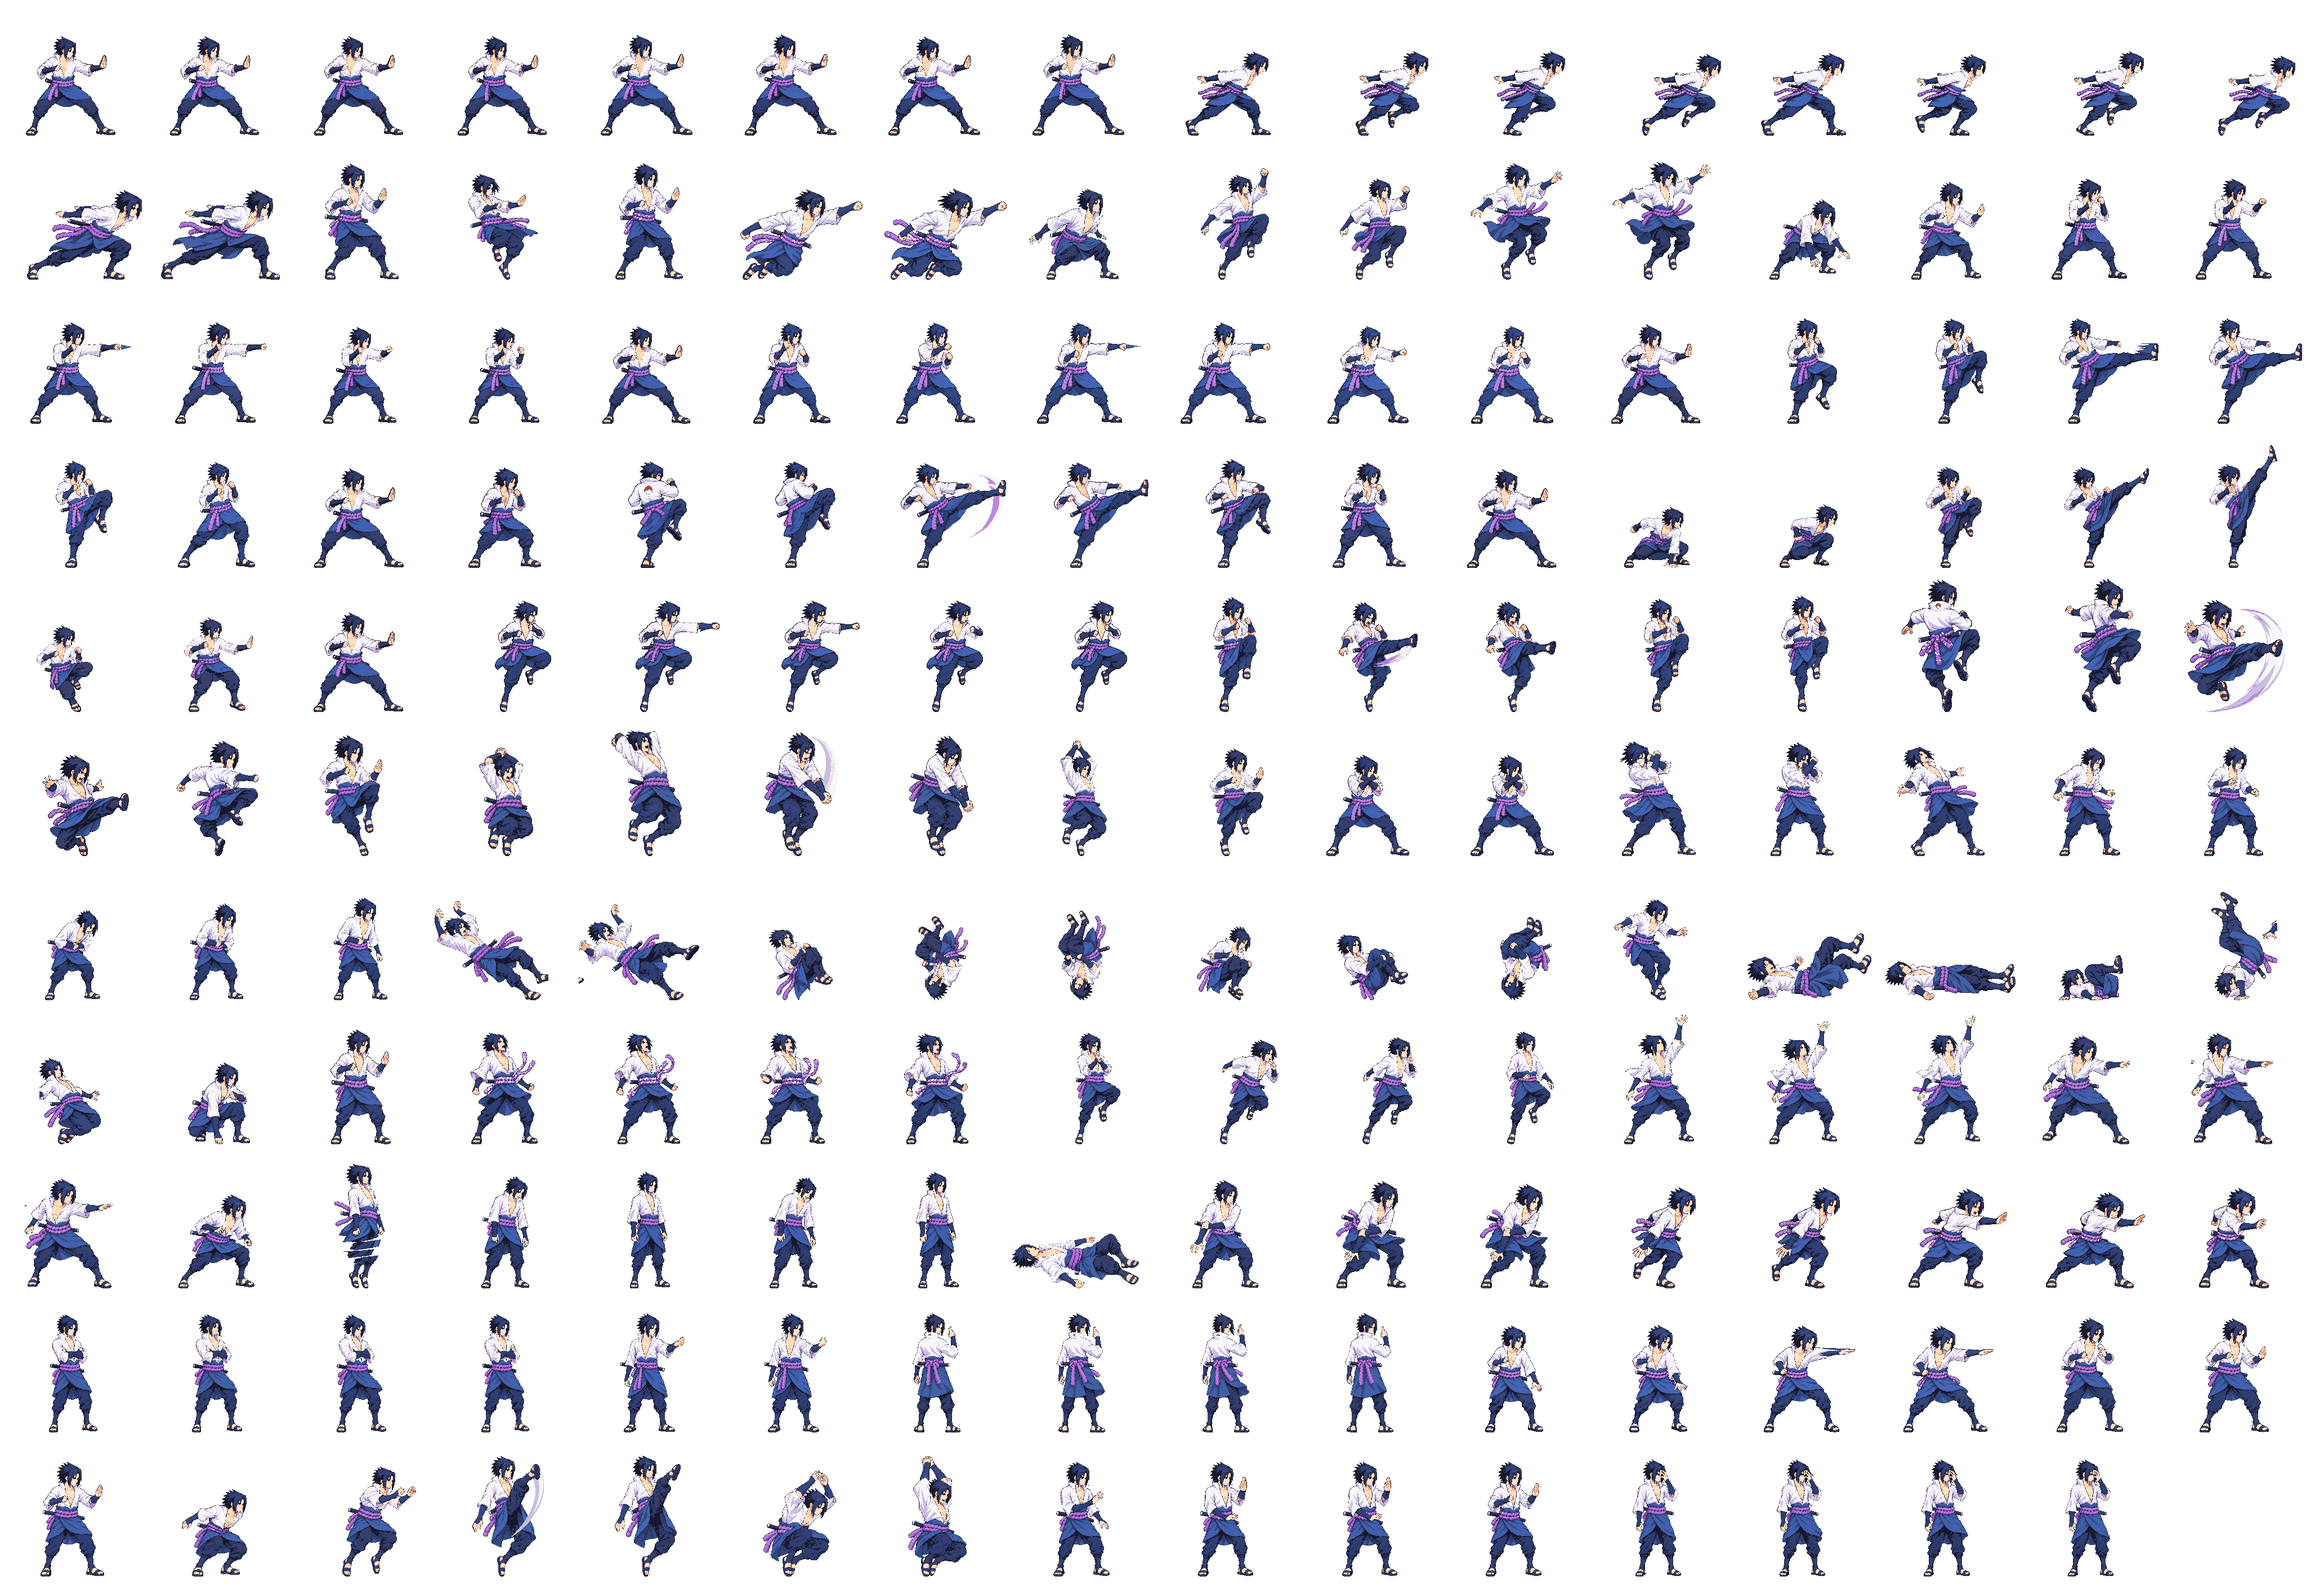
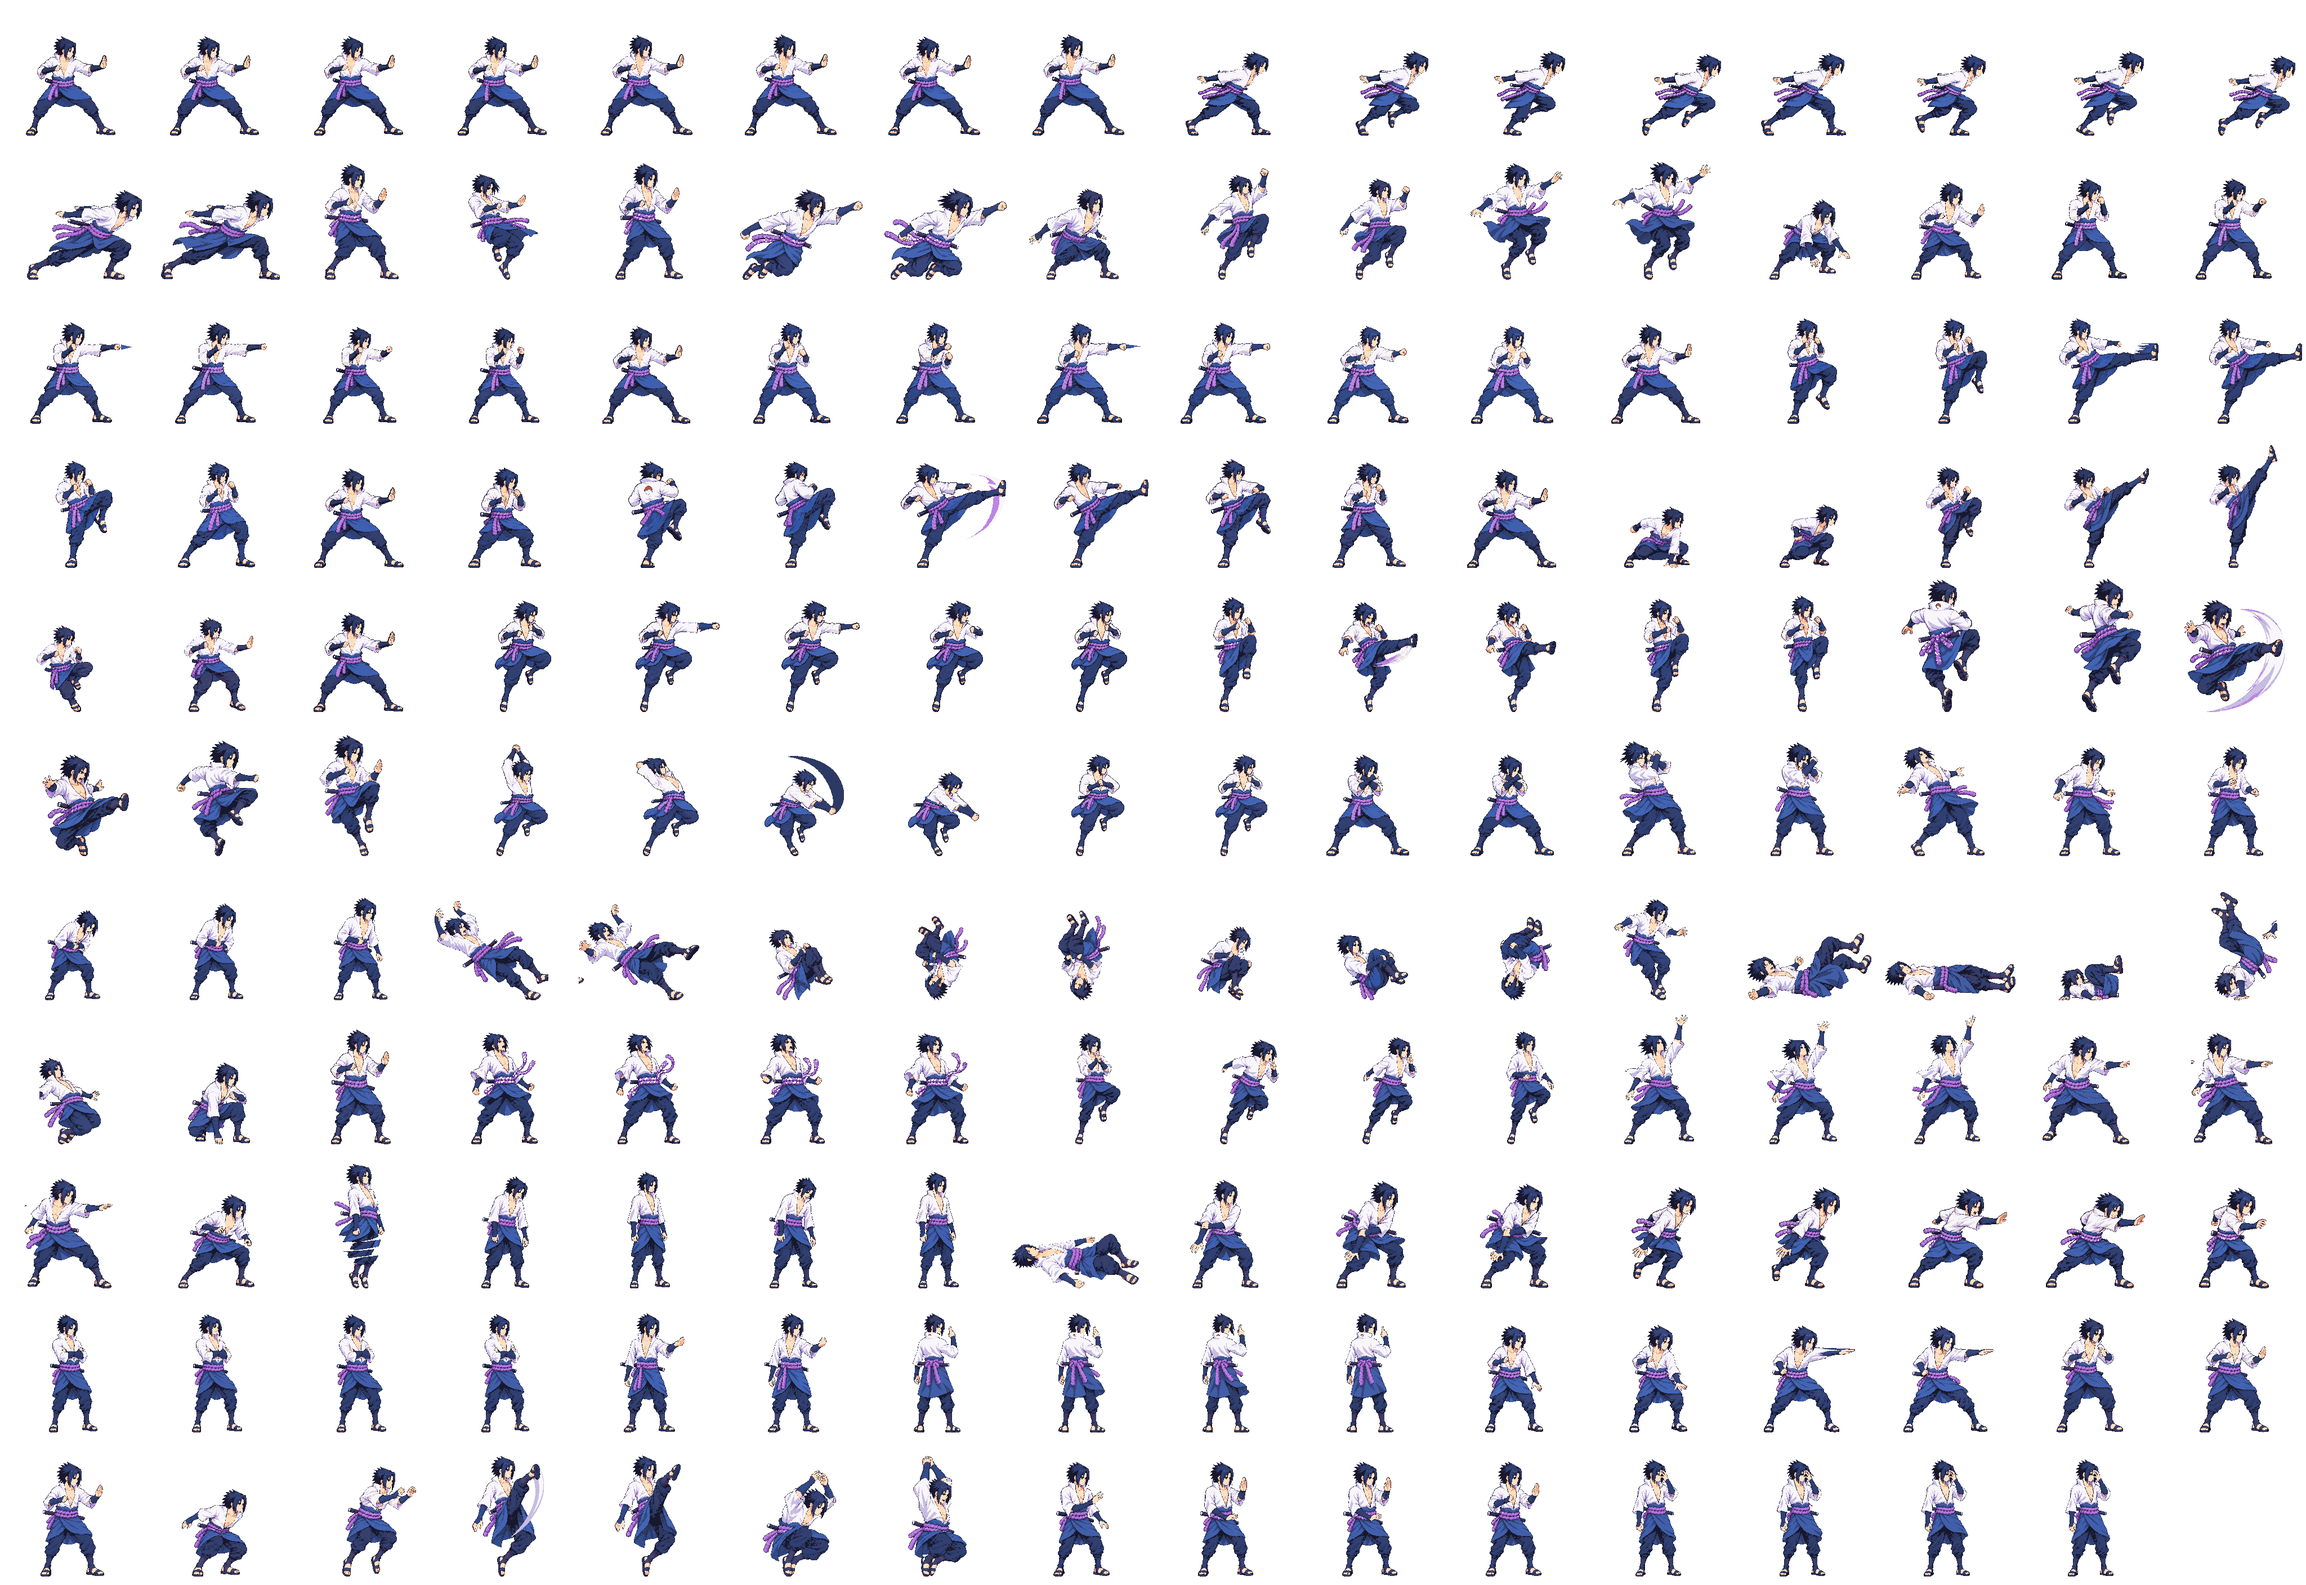
art(sasuke): add title-style airborne hammer candidate

Changed region(s): [[0.1875, 0.4688, 0.5, 0.5312], [0.5312, 0.4688, 0.5625, 0.5312]]

diff --git a/art/characters/sasuke/production/title-style/QA.md b/art/characters/sasuke/production/title-style/QA.md
@@ -67,6 +67,11 @@ User-approved source: `reference/title_style_draft_v01.png`, plus the 256 px neu
 - Git history contains airLight1 v01–v02. The first title-style five-frame source was v03, a consistent airborne left jab with guard, two extended contact frames, retraction and guard return. The 48-color pack exited 0 but reported the f1 fist clipped 4 px at right. [Actual atlas v03](packed-airLight1-v03-qa.png) documents the technical reject.
 - v04 preserves the generated pixels and applies measured frame offsets of -6 px in f1 and -3 px in f2 so both contact fists stay inside the 256 cell. The 48-color new-strip gate exits 0 without new scale or clipping warnings. [All five actual atlas cells](packed-airLight1-v04.png) were inspected: same angular head, long-legged airborne pose, sheathed sword, matching f0/f4 loop endpoints and rightmost fist on f1/f2. The contact pose has no separate smear, but the arm reads as one clear straight punch. User full-set review remains pending.
 
+## AirHeavy v04 manual head-contour finding
+
+- Git history contains airHeavy v01–v03, so the new six-frame hammer is v04. It uses four generated A poses and two B poses; `npm run stitch -- sasuke airHeavy v04` measured B factor 0.9947, B/A 0.988. The first 48-color candidate pack failed the head mask at f0 0.47× versus f3 0.97× idle. Raised clasped hands and navy forearm guards touch the dark hair silhouette; f1 leans back with the arm beside the hair. This is not a numeric scale pass.
+- A temporary v04-only f0/f1 mask exemption allowed extraction of [actual atlas cells](packed-airHeavy-v04-qa.png) for independent anatomy inspection. The [3× nearest-neighbor head comparison](packed-airHeavy-v04-heads.png) shows the same angular skull, jaw and swept hair across the overhead wind-up, bent-forward impact and air guard. A separate connected exposed facial-skin contour in f0 extends y98..131 = 34 px, versus f5 y88..122 = 35 px; the automated 0.47 ratio is therefore not a credible skull measurement. The torso, arms, rope, waist cloth and long legs read at one scale. In f2/f3 the clasped fists lead downward and right while the feet remain lower. f4/f5 return to the same air pose as airLight1. The v04-only exemption is a documented **manual acceptance of the head mask**, not a claimed numeric pass; user full-set review remains pending.
+
 ## Remaining checks
 
 The escalated local Vite adapter served port 5222. The in-app browser showed two Sasuke fighters at the same game depth with the new idle, matched apparent height and grounded feet. The console logged `[sprites] using custom sheet for sasuke (42 animations)` and no errors. The production build passed (80 modules) and the adapter's HTTP self-check returned four 200 responses. Full production, full-character strict scale, contact/hurtbox validation, user image approval, integration and deployment remain open.

diff --git a/art/REVIEW.md b/art/REVIEW.md
@@ -53,6 +53,7 @@ Status values: `needs review` · `approved` · `rejected`.
 
 | date | character | asset | file | version | status | what changed | QA notes |
 |---|---|---|---|---|---|---|---|
+| 2026-10-11 | sasuke | airHeavy | [airHeavy_v04.png](characters/sasuke/raw/airHeavy_v04.png) | v04 | needs review | Title-style six-frame airborne two-fist hammer spike, measured A/B stitch and air-guard return. | 48-color candidate pack passes using a v04-only f0/f1 head-mask exemption; **manual anatomy acceptance, not numeric pass**. Independent exposed face contour f0 34 px vs f5 35 px; raised clasped hands/guards confuse the hair probe. No clipping. [Actual packed frames](characters/sasuke/production/title-style/packed-airHeavy-v04-qa.png) · [head comparison](characters/sasuke/production/title-style/packed-airHeavy-v04-heads.png) · [heads sheet](scale/heads-sasuke.png) · [QA](characters/sasuke/production/title-style/QA.md). Full-set final review pending. |
 | 2026-10-11 | sasuke | airLight1 | [airLight1_v04.png](characters/sasuke/raw/airLight1_v04.png) | v04 | needs review | Title-style five-frame airborne left jab with measured active-fist placement. | v03 source preserved; f1 shifted 6 px left, f2 3 px after actual atlas f1 clipped 4 px. 48-color new-strip gate passes without clipping or exemption; air-pose loop frames match. [Actual packed frames](characters/sasuke/production/title-style/packed-airLight1-v04.png) · [heads sheet](scale/heads-sasuke.png) · [QA](characters/sasuke/production/title-style/QA.md). Full-set final review pending. |
 | 2026-10-11 | sasuke | airLight1 | [airLight1_v03.png](characters/sasuke/raw/_rejected/airLight1_v03.png) | v03 | rejected | First title-style airborne left jab. | Technical reject: actual packed f1 fist clipped 4 px at right edge. [Packed QA](characters/sasuke/production/title-style/packed-airLight1-v03-qa.png). |
 | 2026-10-11 | sasuke | heavy | [heavy_v10.png](characters/sasuke/raw/heavy_v10.png) | v10 | needs review | Title-style rising right-leg launcher with deep drop, chin strike, vertical follow-through, landing and exact open-palm idle return. | Measured B stitch 0.9578 and generated idle f0 reuse; 48-color new-strip gate passes without clipping or exemption. Active foot is highest in f4; final 159×177 px equals idle, soles y240. [Actual packed frames](characters/sasuke/production/title-style/packed-heavy-v10.png) · [heads sheet](scale/heads-sasuke.png) · [QA](characters/sasuke/production/title-style/QA.md). Full-set final review pending. |

diff --git a/docs/TASKS.md b/docs/TASKS.md
@@ -20,7 +20,7 @@ The single list of work in flight, shared by the user, Claude and Codex. The pro
 
 ## Milestone M2: training, input, hit accuracy (v0.3.0)
 
-**ART-SAS-TITLE-20261011**, Codex, in-progress. files: art/characters/sasuke/, art/manifest.json, art/TRACKER.md, art/REVIEW.md, art/scale/heads-sasuke.png, public/characters/sasuke/, docs/TASKS.md, CHANGELOG.md. User approved title-style draft and scaled pilot, authorized all 42 animations plus 3 UI without intermediate image gates. Branch `art/sasuke-title-production`, real sparse worktree and draft PR #71 with committed WIP preview. Idle v07, guard v04, run v05, light1 v09, light2 v07, light3 v08, light4 v08, heavy v10 and airLight1 v04 have native QA; the attack endpoints use measured generated idle f0 source for the approved open-palm recovery stance. Earlier attack candidates remain archived with reasons in REVIEW.md. Live equal-depth idle/custom-sheet load passed. Full batch, user final review and Claude integration remain open.
+**ART-SAS-TITLE-20261011**, Codex, in-progress. files: art/characters/sasuke/, art/manifest.json, art/TRACKER.md, art/REVIEW.md, art/scale/heads-sasuke.png, public/characters/sasuke/, docs/TASKS.md, CHANGELOG.md. User approved title-style draft and scaled pilot, authorized all 42 animations plus 3 UI without intermediate image gates. Branch `art/sasuke-title-production`, real sparse worktree and draft PR #71 with committed WIP preview. Idle v07, guard v04, run v05, light1 v09, light2 v07, light3 v08, light4 v08, heavy v10, airLight1 v04 and airHeavy v04 have native QA; attack endpoints use measured generated idle f0 source for the approved open-palm recovery stance. AirHeavy v04 head-mask exemption is manual and version-only. Earlier attack candidates remain archived with reasons in REVIEW.md. Live equal-depth idle/custom-sheet load passed. Full batch, user final review and Claude integration remain open.
 
 Cast proportion review: **ART-CAST-SAMPLES**, Codex, review. User requested a quick sample checkpoint before the full frame audit. Branch `art/cast-scale-samples` compares production-matched sprites, Naruto guard/block/spot-dodge head crops, and approved turnarounds. No art approvals or gameplay changes. Full audit paused for user feedback; Claude owns integration.
 

diff --git a/art/TRACKER.md b/art/TRACKER.md
@@ -144,7 +144,7 @@ Sprite Lab; if his hair adds clearly less height and his head comes out bigger, 
 | 5 | light4 | 8 | 3/2/3 | **yes** | 193 | approved | v08 | v01 | Title-style v08 candidate: measured active-foot offsets and generated idle f0 open-palm endpoint; 48-color new-strip gate and actual atlas QA pass. v05–v07 rejected; old v01 remains approved pending full-set review. |
 | 5 | heavy | 8 | 3/2/3 | **yes** | 218 | approved | v10 | v06 | Title-style v10 candidate: measured B stitch, generated idle endpoint, 48-color new-strip gate and actual atlas QA pass. v09 had a too-short return and was rejected; old v06 remains approved pending final full-set review. |
 | 5 | airLight1 | 5 | 1/2/2 | **yes** | 198 | approved | v04 | v01 | Title-style v04 candidate: measured active-fist offset corrected v03 4 px clip; 48-color new-strip gate and five actual atlas frames pass. Old v01 remains approved pending full-set final review. |
-| 5 | airHeavy | 6 | 2/2/2 | **yes** | 198 | approved | v02 | v02 | User approved the final batch 2026-10-10 (chat with Claude, PR #9). |
+| 5 | airHeavy | 6 | 2/2/2 | **yes** | 198 | approved | v04 | v02 | Title-style v04 candidate: measured B stitch, six actual atlas frames and manual head/torso comparison. f0/f1 head-mask exemption is version-only and manual, not numeric pass; old v02 remains approved pending full-set final review. |
 | 6 | guard | 2 | - | **yes** | 180 | approved | v04 | v01 | Title-style v04 candidate, needs final batch review; v03 rejected for real frame pop. v04 crossed arms confuse the hair probe; version-owned manual exemption is documented in QA, not counted as a numeric pass. Old v01 remains approved. |
 | 6 | hurtHigh | 3 | - | **yes** | 195 | approved | v02 | v02 | User approved the final batch 2026-10-10 (chat with Claude, PR #9). |
 | 6 | launched | 2 | - | **yes** | 136 | approved | v01 | v01 | User approved the final batch 2026-10-10 (chat with Claude, PR #9). |

diff --git a/CHANGELOG.md b/CHANGELOG.md
@@ -11,6 +11,8 @@ Fixed, Security. Reference task ids and ADRs where useful.
 
 ## [Unreleased]
 
+- art(sasuke): add title-style airborne hammer v04 with measured two-part stitch and documented manual f0/f1 head-mask finding, backed by actual atlas crops.
+
 - art(sasuke): add title-style airborne jab v04, correct a measured 4 px contact-fist clip without changing generated pixels and inspect all five packed frames.
 
 - art(sasuke): add title-style heavy rising launcher v10 with measured generated idle recovery, preserve rejected v09 and verify eight 48-color packed frames.
